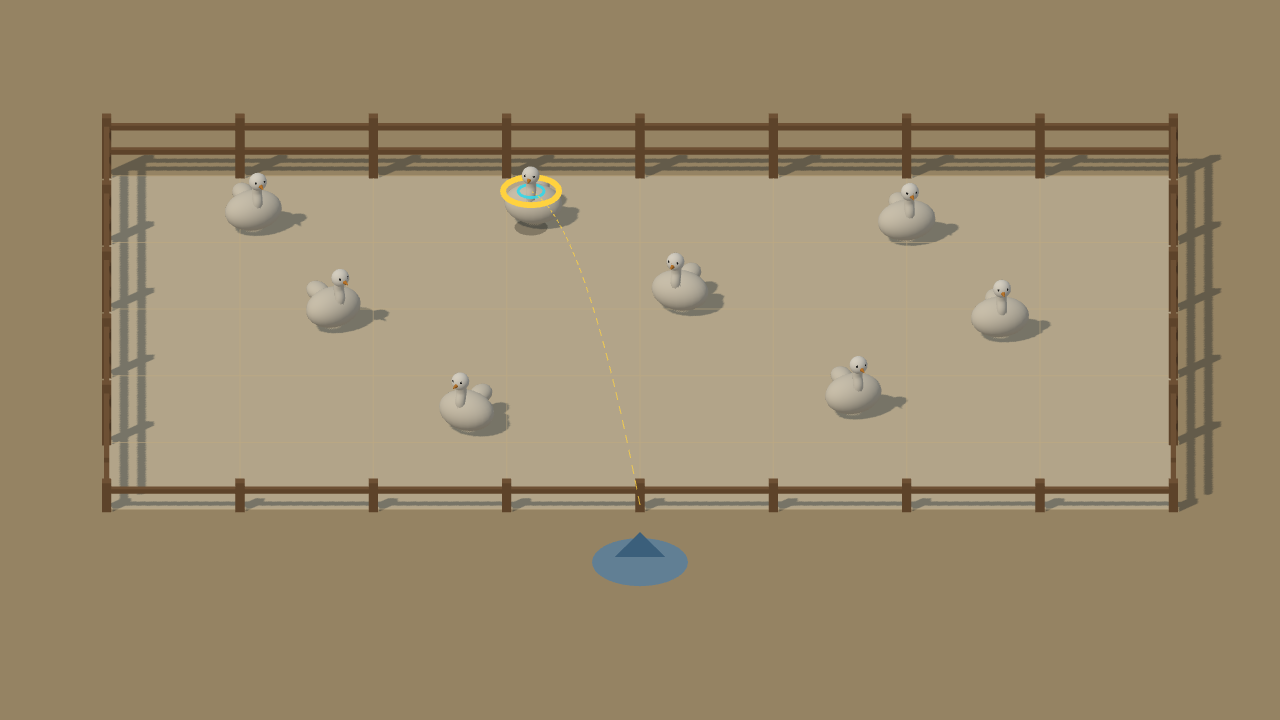
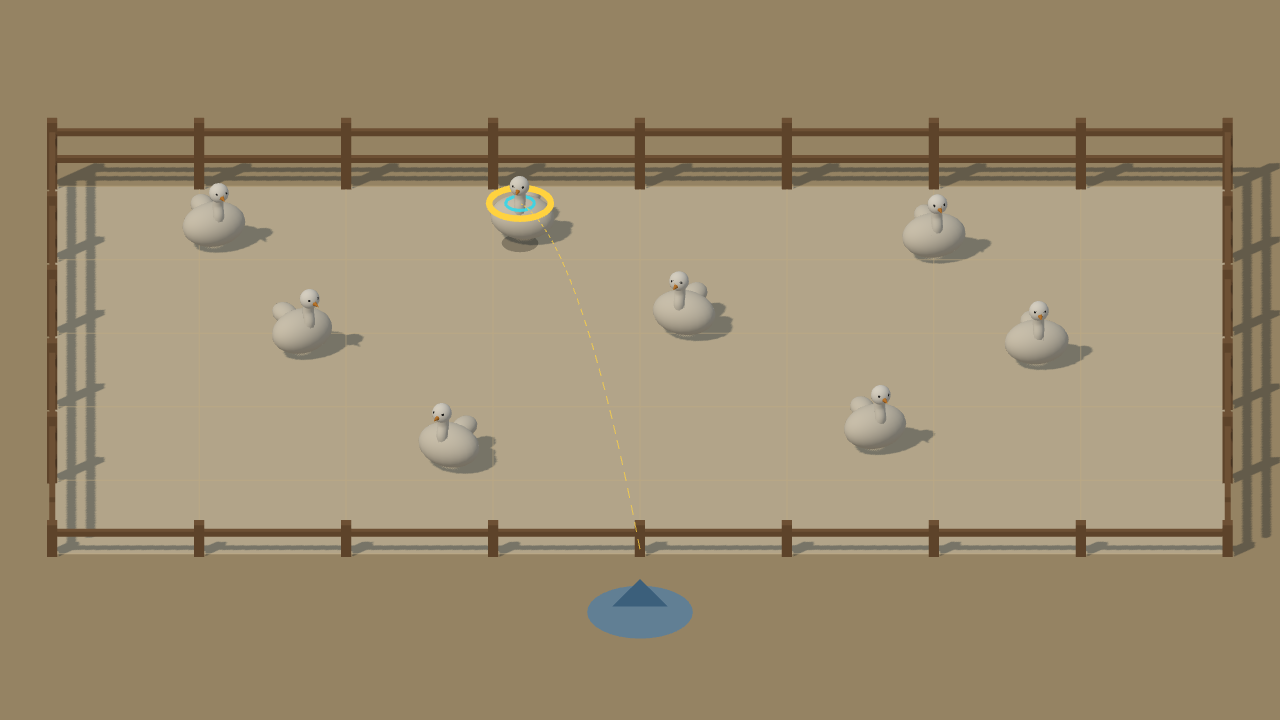
feat(P0-0): 收紧构图与手机尺寸验证，前台性能采样与投掷验证记录

diff --git a/src/config/gameConfig.ts b/src/config/gameConfig.ts
@@ -29,26 +29,26 @@ export type CameraMode = OrthoCameraMode | PerspectiveCameraMode;
 /**
  * 相机对比模式（P0-0 投影实验）：
  * 三种模式统一 30° 俯视 + 0° 偏转，只改变投影方式与距离。
- * 构图收紧：正交可视高 10.8 m、注视点向玩家侧偏移 (0, 0.4, 1.2)，
- * 让围栏占屏约 83% 宽、顶部只留约 16% 给 UI 安全区。
- * 透视距离按“注视点平面可视高度 ≈ 正交 10.8 m”估算，并保证近边不超出屏幕：
- *   d ≈ viewHeight / (2 × tan(fov/2))，再按近边宽度上限微调。
+ * 构图收紧：正交可视高 9.8 m、注视点 z=0.4，
+ * 让围栏顶部贴住 12% UI 安全区、前栏杆落到约 73% 屏高；
+ * 透视距离按“注视点平面可视高度 ≈ 正交 9.8 m”估算（d ≈ 9.8 / (2×tan(fov/2))），
+ * 近边宽度差异属透视本身特性。
  */
 export const cameraModes: CameraMode[] = [
-  { id: 'ortho', label: 'A 正交', kind: 'ortho', distance: 26, viewHeight: 10.8 },
-  { id: 'persp25', label: 'B 透视25°', kind: 'persp', distance: 24.5, fov: 25 },
-  { id: 'persp35', label: 'C 透视35°', kind: 'persp', distance: 18.0, fov: 35 },
+  { id: 'ortho', label: 'A 正交', kind: 'ortho', distance: 26, viewHeight: 9.8 },
+  { id: 'persp25', label: 'B 透视25°', kind: 'persp', distance: 19.9, fov: 25 },
+  { id: 'persp35', label: 'C 透视35°', kind: 'persp', distance: 14.0, fov: 35 },
 ];
 
 export const gameConfig = {
   camera: {
-    /** 俯视角（相机相对水平面的仰高角，度）。本轮实验统一 30°。 */
+    /** 俯视角（相机相对水平面的仰高角，度）。 */
     pitchDeg: 30,
     pitchOptionsDeg: [30, 38, 45] as number[],
     /** 水平偏转角固定 0°：围栏前后边在屏幕上保持水平。 */
     yawDeg: 0,
-    /** 注视点：向玩家侧偏移，压缩栏外远端空地，顶部留出 UI 安全区。 */
-    target: { x: 0, y: 0.4, z: 1.2 },
+    /** 注视点：略向玩家侧，兼顾顶部 UI 区与前栏杆位置。 */
+    target: { x: 0, y: 0.4, z: 0.4 },
   },
   physics: {
     gravityY: -9.81,
@@ -56,6 +56,13 @@ export const gameConfig = {
     fixedDt: 1 / 60,
     /** 帧率暴跌时最多补多少个物理步，防止死亡螺旋。 */
     maxCatchUpSteps: 5,
+  },
+  /** 渲染性能相关参数（集中配置，便于按设备档位调整）。 */
+  render: {
+    /** 方向光阴影贴图边长（2048 对移动端可能偏重，待真机测量）。 */
+    shadowMapSize: 2048,
+    /** 设备像素比上限：DPR 1.5 时 1280×720 CSS 会渲染约 1899×939 像素。 */
+    maxPixelRatio: 2,
   },
   fence: {
     /** 围栏宽（X，米）。 */

diff --git a/src/ui/DebugPanel.ts b/src/ui/DebugPanel.ts
@@ -19,6 +19,17 @@ export interface FrameStats {
   fps: number;
   physicsMs: number;
   ballCount: number;
+  /** 当前渲染缓冲尺寸（不是 CSS 尺寸）。 */
+  pixelWidth: number;
+  pixelHeight: number;
+  /** devicePixelRatio 实际生效值（受上限限制）。 */
+  dpr: number;
+  /** 每帧 draw call 数。 */
+  drawCalls: number;
+  /** 每帧三角形数。 */
+  triangles: number;
+  /** 方向光阴影贴图边长。 */
+  shadowMapSize: number;
 }
 
 /** 简易 DOM 调试面板（正式 UI 后续会替换；P0-0 只用于观察与验证）。 */
@@ -132,7 +143,9 @@ export class DebugPanel {
 
   updateStats(stats: FrameStats): void {
     this.statsEl.textContent =
-      `FPS ${stats.fps.toFixed(0)} | 物理 ${stats.physicsMs.toFixed(2)}ms | 球 ${stats.ballCount}`;
+      `FPS ${stats.fps.toFixed(0)} | 物理 ${stats.physicsMs.toFixed(2)}ms | 球 ${stats.ballCount}\n` +
+      `绘制 ${stats.drawCalls} / ${(stats.triangles / 1000).toFixed(1)}k 三角 | ` +
+      `${stats.pixelWidth}×${stats.pixelHeight} @DPR${stats.dpr.toFixed(2)} | 阴影 ${stats.shadowMapSize}`;
   }
 
   /** 显示相机实际姿态与投影参数，并同步按钮高亮。 */

diff --git a/src/cameraUtils.test.ts b/src/cameraUtils.test.ts
@@ -77,10 +77,18 @@ describe('相机对比模式取景', () => {
   it('三种模式在注视点平面的可视高度接近（围栏占比近似相同）', () => {
     const ortho = cameraModes.find((m) => m.kind === 'ortho');
     if (!ortho || ortho.kind !== 'ortho') throw new Error('缺少正交模式');
-    for (const mode of cameraModes) {
-      if (mode.kind !== 'persp') continue;
-      const visibleHeight = 2 * mode.distance * Math.tan((mode.fov * Math.PI) / 360);
-      expect(Math.abs(visibleHeight - ortho.viewHeight)).toBeLessThan(0.6);
+
+    const persp = cameraModes.filter((m) => m.kind === 'persp');
+    const heights = persp.map(
+      (m) => 2 * m.distance * Math.tan((m.fov * Math.PI) / 360),
+    );
+
+    for (const h of heights) {
+      // 透视模式为压缩画面上方空地，取景比正交略紧（约 10%），
+      // 允许 1.1 m 偏差；若未来再改构图需同步 04_决策与参数.md。
+      expect(Math.abs(h - ortho.viewHeight)).toBeLessThan(1.1);
     }
+    // FOV25° 与 FOV35° 两种透视模式之间应基本一致，否则对比条件不公平。
+    expect(Math.abs(heights[0] - heights[1])).toBeLessThan(0.1);
   });
 });

diff --git a/src/app/GameApp.ts b/src/app/GameApp.ts
@@ -36,6 +36,8 @@ export class GameApp {
 
   private raycaster = new THREE.Raycaster();
   private groundPlane = new THREE.Plane(new THREE.Vector3(0, 1, 0), 0);
+  /** 复用向量，避免每 0.25 s 统计时新建对象。 */
+  private drawBufferSize = new THREE.Vector2();
 
   async start(canvas: HTMLCanvasElement): Promise<void> {
     this.scene = new GameScene(canvas);
@@ -129,10 +131,18 @@ export class GameApp {
       this.fps = this.frameCount / this.statTimer;
       this.frameCount = 0;
       this.statTimer = 0;
+      this.scene.renderer.getDrawingBufferSize(this.drawBufferSize);
+      const renderInfo = this.scene.renderer.info.render;
       const stats: FrameStats = {
         fps: this.fps,
         physicsMs: this.physicsMs,
         ballCount: this.balls.length,
+        pixelWidth: this.drawBufferSize.x,
+        pixelHeight: this.drawBufferSize.y,
+        dpr: this.scene.renderer.getPixelRatio(),
+        drawCalls: renderInfo.calls,
+        triangles: renderInfo.triangles,
+        shadowMapSize: gameConfig.render.shadowMapSize,
       };
       this.panel.updateStats(stats);
     }

diff --git a/src/scene/GameScene.ts b/src/scene/GameScene.ts
@@ -38,7 +38,7 @@ export class GameScene {
 
   constructor(canvas: HTMLCanvasElement) {
     this.renderer = new THREE.WebGLRenderer({ canvas, antialias: true });
-    this.renderer.setPixelRatio(Math.min(window.devicePixelRatio, 2));
+    this.renderer.setPixelRatio(Math.min(window.devicePixelRatio, gameConfig.render.maxPixelRatio));
     this.renderer.shadowMap.enabled = true;
     this.renderer.shadowMap.type = THREE.PCFSoftShadowMap;
 
@@ -64,7 +64,7 @@ export class GameScene {
     const dir = new THREE.DirectionalLight(0xfff1da, 1.35);
     dir.position.set(-10, 16, 9); // 侧向斜光：柱子与鹅产生可辨认的投影
     dir.castShadow = true;
-    dir.shadow.mapSize.set(2048, 2048);
+    dir.shadow.mapSize.set(gameConfig.render.shadowMapSize, gameConfig.render.shadowMapSize);
     dir.shadow.camera.left = -16;
     dir.shadow.camera.right = 16;
     dir.shadow.camera.top = 16;

diff --git a/src/style.css b/src/style.css
@@ -71,6 +71,7 @@ body {
   margin-top: 4px;
   font-family: Consolas, monospace;
   color: #9fd49f;
+  white-space: pre-line;
 }
 
 #debug-panel .camera-info {

diff --git a/docs/agent-plan/04_决策与参数.md b/docs/agent-plan/04_决策与参数.md
@@ -23,8 +23,8 @@
 
 | 参数 | 当前值 | 说明 |
 |---|---|---|
-| 相机投影对比 | A 正交（可视高 10.8 m，距 26 m）/ B 透视 FOV25°（距 24.5 m）/ C 透视 FOV35°（距 18 m） | 取景收紧后按“注视点平面可视高≈10.8 m”重算透视距离；三种模式围栏占屏近似，近边宽度差异属透视本身特性 |
-| 相机取景 | 注视点 (0, 0.4, 1.2)，正交可视高 10.8 m | 向玩家侧偏移，压缩栏外远端空地；1280×720 下围栏约占 83% 屏宽、顶部留约 16% UI 区 |
+| 相机投影对比 | A 正交（可视高 9.8 m，距 26 m）/ B 透视 FOV25°（距 19.9 m）/ C 透视 FOV35°（距 14.0 m） | 按“注视点平面可视高≈9.8 m”重算透视距离；三种模式围栏占屏近似，近边宽度差异属透视本身特性。当前默认 A 正交 |
+| 相机取景 | 注视点 (0, 0.4, 0.4)，正交可视高 9.8 m | 进一步压缩上方空地：1280×720 下围栏顶部约 13%（紧贴 12% UI 带），前栏杆约 75~77%，两侧围栏完整可见，投掷起点垫完整可见；B 透视 25° 顶部约 19%、前栏约 78~82%，投掷起点垫被底部 8% 带部分遮挡；C 透视 35° 前栏杆进入底部安全带 |
 | UI 安全区参考 | 顶部 12% / 底部 8% 参考带（调试开关，`?safe=1`） | 仅验证正式 UI 是否压住鹅头颈或投掷热区；不是正式界面 |
 | 相机默认姿态 | 俯视 30° + 水平偏转 0° | 本轮实验统一；偏转固定 0°，围栏前后边在屏幕上保持水平 |
 | 俯视角可切换档位 | 30/38/45° | 保留 P0-0 原实验能力；三种投影模式共享同一俯视角 |
@@ -36,6 +36,10 @@
 | 投掷起点标记 | 栏外 (0, 6.6)，圆垫半径 0.72 m + 指向 -Z 的箭头 | 明确玩家位置与投掷纵深方向，非玩法判定 |
 | 测试球 | 半径 0.3 m，弹性 0.55，摩擦 0.9，投放高 5 m，上限 60 颗 | 仅为 P0-0 碰撞验证用；弹跳越过 0.5 m 玩家侧低栏属真实物理，不是碰撞缺失 |
 | 构图预览 | 可隐藏测试球网格（物理不停止） | 用于三种相机模式的同条件截图对比 |
+| 渲染分辨率与阴影 | `setPixelRatio(min(devicePixelRatio, 2))`；方向光阴影贴图 2048，PCFSoft | 笔记本实测 DPR1.5→1899×939；阴影 2048 为实验值，真机再定自适应 |
+| 手机尺寸可辨认性 | 844×390、667×375 截图下 8 只鹅前/中/后三段仍可区分，头/颈/身体可辨 | 667 宽下颈部像素偏细；后续瞄准辅助应用高亮/目标环，不能只依赖裸眼细像素 |
+| 前台性能采样 | 前台 headed Chrome（ANGLE D3D11 / Intel UHD 620 / DPR1.5）：稳定 30 FPS（本环境 rAF 上限约 30Hz），物理 0.1~0.3 ms，绘制 167 calls / 35.6k 三角，阴影 2048；`--disable-gpu-vsync` 后 53~80 FPS | 13~17 FPS 为 headless SwiftShader 采样伪影，非真实 GPU 性能；未通过关闭物理/渲染掩盖问题 |
+| 投掷验证限制 | 现有测试功能为半径 0.3 m 红球、5 m 高落地，会弹跳/滚动 | 只能证明落点区域与纵深可区分，**不能**作为“套圈命中/难度”证据；正式圈体物理与命中判定属 P0-2 |
 | 帧率暴跌保护 | 每帧最多补 5 个物理步 | 防死亡螺旋，超限丢弃积压 |
 
 ## 2. 模式与数据规则
